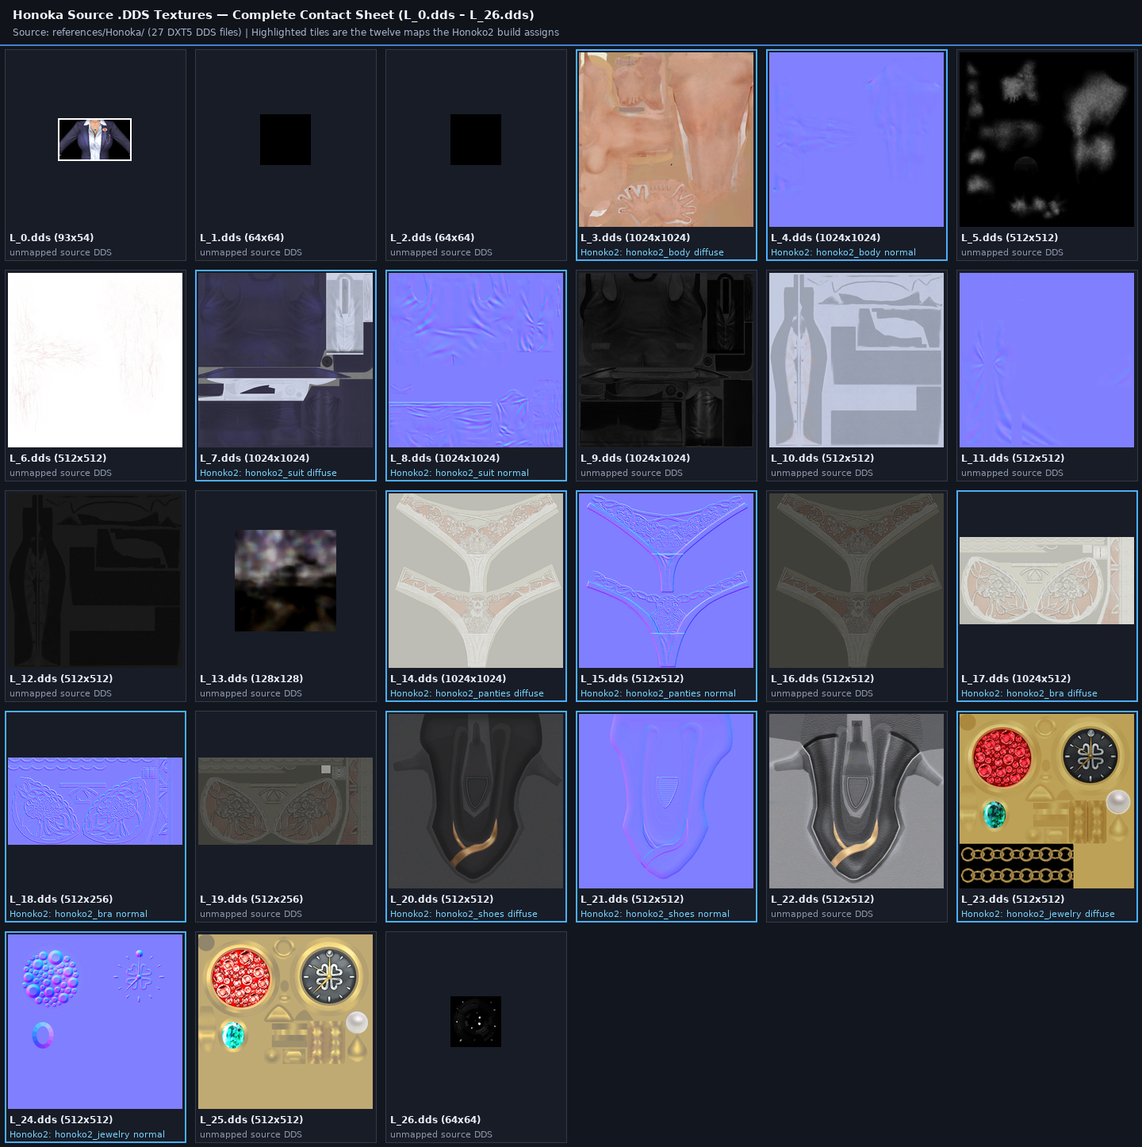
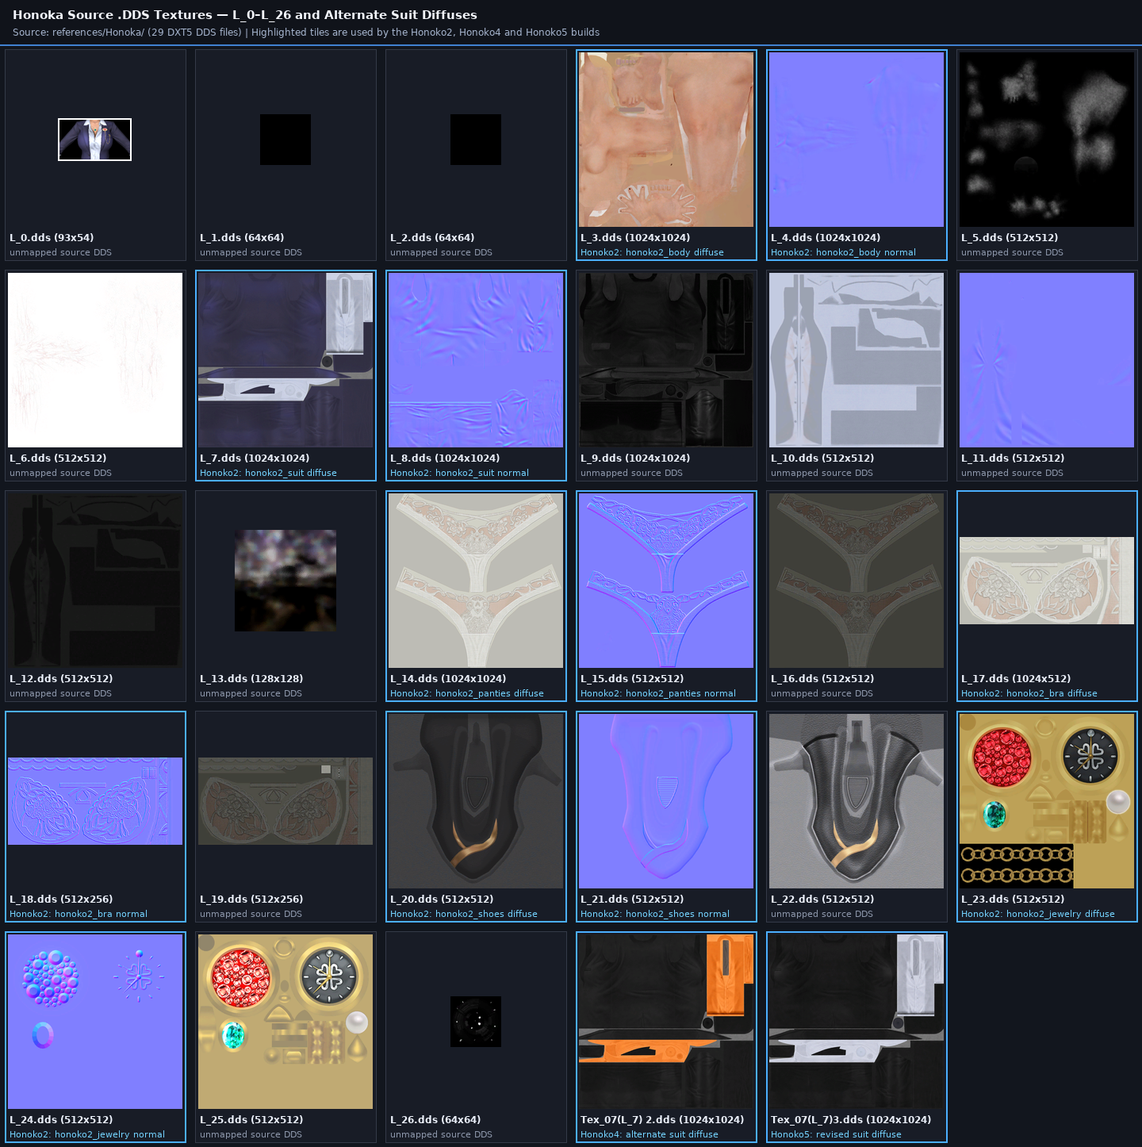
Refresh render documentation and Honoka texture sheet

Changed region(s): [[0.5, 0.8091, 0.8438, 0.9336], [0.5, 0.9647, 0.8125, 1.0], [0.2188, 0.0, 0.4688, 0.0311]]

diff --git a/tools/pd2-las/render_honoka.py b/tools/pd2-las/render_honoka.py
@@ -41,7 +41,7 @@ TMC_NAME = "Honoka_DOAXVV_Secret_Report.TMC"
 TEX_DIR = REPO / "references" / "Honoka"
 GLB_PATH = REPO / "references" / "Honoka" / "Honoka_DOAXVV_Secret_Report.rigged.glb"
 
-#: the twelve source maps the `Honoko2` build assigns, by material slot
+#: source maps assigned by Honoko2 and the Honoko4/5 alternate suit diffuses
 DDS_ROLE_NOTES = {
     "L_3.dds": "Honoko2: honoko2_body diffuse",
     "L_4.dds": "Honoko2: honoko2_body normal",
@@ -55,6 +55,8 @@ DDS_ROLE_NOTES = {
     "L_21.dds": "Honoko2: honoko2_shoes normal",
     "L_23.dds": "Honoko2: honoko2_jewelry diffuse",
     "L_24.dds": "Honoko2: honoko2_jewelry normal",
+    "Tex_07(L_7) 2.dds": "Honoko4: alternate suit diffuse",
+    "Tex_07(L_7)3.dds": "Honoko5: revised suit diffuse",
 }
 
 
@@ -196,6 +198,7 @@ def render_tmc_sheets(rp, out_dir: Path) -> None:
 
 def render_dds_sheet(out_dir: Path) -> None:
     dds_files = sorted(TEX_DIR.glob("L_*.dds"), key=lambda p: int(p.stem.split("_")[1]))
+    dds_files += [TEX_DIR / name for name in ("Tex_07(L_7) 2.dds", "Tex_07(L_7)3.dds")]
     cols, rows = 6, (len(dds_files) + 5) // 6
     tile_w, tile_h = 240, 278
     canvas = Image.new("RGB", (cols * tile_w, rows * tile_h + 56), (18, 22, 30))
@@ -224,8 +227,8 @@ def render_dds_sheet(out_dir: Path) -> None:
 
     _header(
         canvas,
-        "Honoka Source .DDS Textures — Complete Contact Sheet (L_0.dds – L_26.dds)",
-        f"Source: references/Honoka/ ({len(dds_files)} DXT5 DDS files) | Highlighted tiles are the twelve maps the Honoko2 build assigns",
+        "Honoka Source .DDS Textures — L_0–L_26 and Alternate Suit Diffuses",
+        f"Source: references/Honoka/ ({len(dds_files)} DXT5 DDS files) | Highlighted tiles are used by the Honoko2, Honoko4 and Honoko5 builds",
     )
     out_dir.mkdir(parents=True, exist_ok=True)
     out_path = out_dir / "honoka_dds_contact_sheet.png"

diff --git a/tests/test_honoka_dds_render.py b/tests/test_honoka_dds_render.py
@@ -1,0 +1,28 @@
+"""The source texture sheet includes both alternate Honoko suit maps."""
+
+import importlib.util
+from pathlib import Path
+
+from PIL import Image, ImageChops
+
+REPO = Path(__file__).resolve().parents[1]
+
+
+def test_contact_sheet_includes_alternate_suit_diffuses(tmp_path, monkeypatch):
+    script = REPO / "tools/pd2-las/render_honoka.py"
+    monkeypatch.syspath_prepend(str(script.parent))
+    spec = importlib.util.spec_from_file_location("honoka_render_test", script)
+    module = importlib.util.module_from_spec(spec)
+    spec.loader.exec_module(module)
+    module.render_dds_sheet(tmp_path)
+    sheet = Image.open(tmp_path / "honoka_dds_contact_sheet.png").convert("RGB")
+    assert sheet.size == (6 * 240, 5 * 278 + 56)
+    for index, name in enumerate(("Tex_07(L_7) 2.dds", "Tex_07(L_7)3.dds"), start=27):
+        assert name in module.DDS_ROLE_NOTES
+        source = Image.open(module.TEX_DIR / name).convert("RGB")
+        source.thumbnail((220, 220), Image.Resampling.LANCZOS)
+        row, col = divmod(index, 6)
+        x = col * 240 + (240 - source.width) // 2
+        y = 56 + row * 278 + 10 + (220 - source.height) // 2
+        crop = sheet.crop((x, y, x + source.width, y + source.height))
+        assert ImageChops.difference(crop, source).getbbox() is None

diff --git a/tools/pd2-las/README.md b/tools/pd2-las/README.md
@@ -12,8 +12,8 @@ registration. Pure Python: no Source compile step, no Blender, and no game is ne
 | `Honoko2`..`Honoko5` — the DOAXVV "Secret Report" costume, built from `.dae` (6 mats); `Honoko3` is the same mesh 5% slimmer; `Honoko4`/`Honoko5` are `Honoko3` in the user's alternate suit colourways | `references/Honoka/Honoka_DOAXVV_Secret_Reportout.dae` | `build_honoko2_dae.py` | `honokodae` |
 
 `honokodae` writes `dist/Honoka/Honoko2.zip` through `dist/Honoka/Honoko5.zip` directly, and `fresh` verifies all
-four. `Honoko3` and `Honoko4` are also built with the layer-clearance pass and the trimmed
-shadow caster of D44; `Honoko4`'s suit slot reads `references/Honoka/Tex_07(L_7) 2.dds`.
+four. `Honoko3`, `Honoko4` and `Honoko5` share the layer-clearance pass and trimmed shadow caster of D44;
+`Honoko4` and `Honoko5` use the two user-supplied alternative suit diffuses.
 The `.dae` builder takes its skinning from the source TMC (`tmc.py`, `tmc_skeleton_map.json`), cuts wrists, encodes DXT5 mips (matte gloss; X-in-alpha, Y+-in-green normals), and registers BODY_ONLY with glove adapter and 4-view icon.
 `runtime_verified` is `false`; `Honoko2` was seen in the in-game outfit menu (`docs/pd2-las/HANDOFF.md`). See `docs/pd2-las/honoka-tmc-format.md`.
 
@@ -44,7 +44,7 @@ make -sC tools/pd2-las green    # everything the test workflow checks, test and 
   `"is": "tracked"` (the zip is what git holds) proves a rebuild; the builder's output is in
   `build/pd2-las/<target>.log`. In the pinned environment an unchanged tree reproduces the zips on any x86-64
   Linux machine: every builder first puts itself on one declared code path (`determinism.py`). `fresh` checks
-  all 20 zips in a copy and touches no tracked file; nor does a builder run with `--out build/x`.
+  all tracked ZIPs, including the two build copies, in a copy and touches no tracked file; nor does a builder run with `--out build/x`.
 - **Done means:** `green` passes and `status` shows `changed` only for packs you meant to change. No
   document needs an edit; a changed `Miranda_LAS` needs `heads` run again.
 
@@ -56,7 +56,7 @@ make -sC tools/pd2-las green    # everything the test workflow checks, test and 
 | `build_las.py`, `las_pack.py` | scaffold stage: VPK → textures, hook, `main.xml`, locales, unit XML, `BUILD_INFO.json`, reproducible zip. Run alone, `build_las.py` leaves a scaffold without models, marked `WIP_DO_NOT_INSTALL.txt` |
 | `source_inventory.json` | what the L4D2 source archive contains (bones, meshes, triangle counts, texture formats); tracked, `make -sC tools/pd2-las inventory` rewrites it, and a test fails while it is stale |
 | `build_busty_variant.py`, `bust_variant.py` | the chest-morph variant |
-| `build_honoko2_dae.py`, `tmc_las.py` | the Honoko2..Honoko5 (DOAXVV "Secret Report") LAS packs, built from the Collada `.dae` with the TMC's skinning: palette remap, wrist cut, DXT5 textures, BODY_ONLY registration + glove adapter, icon from own render; `Honoko3` adds the bone-anchored slim pass (`_slim_groups`); `Honoko3`/`Honoko4` add the layer-clearance pass and the trimmed shadow caster (`_clearance_pass`, D44); `Honoko4`/`Honoko5` swap the suit diffuse for the user's `Tex_07(L_7) 2.dds` / `Tex_07(L_7)3.dds`; `tmc_las.py` holds the TMC frame map and mesh post-processes |
+| `build_honoko2_dae.py`, `tmc_las.py` | the Honoko2..Honoko5 (DOAXVV "Secret Report") LAS packs, built from the Collada `.dae` with the TMC's skinning: palette remap, wrist cut, DXT5 textures, BODY_ONLY registration + glove adapter, icon from own render; `Honoko3` adds the bone-anchored slim pass (`_slim_groups`); `Honoko3`/`Honoko4`/`Honoko5` add the layer-clearance pass and the trimmed shadow caster (`_clearance_pass`, D44); `Honoko4`/`Honoko5` swap the suit diffuse for the user's `Tex_07(L_7) 2.dds` / `Tex_07(L_7)3.dds`; `tmc_las.py` holds the TMC frame map and mesh post-processes |
 | `las_outfit_pack.py` | the registration, hook, localization, unit/object XML, zip and the glove-adapter companion shared by body-only LAS packs |
 | `diesel_model.py` | Diesel `.model` codec; change it only with the round-trip tests green |
 | `vpk.py`, `source_model.py`, `vtf.py`, `dds_encode.py` | Source readers (VPK, MDL 44–49 + VVD + VTX, VTF) and DDS writers |

diff --git a/tools/README.md b/tools/README.md
@@ -2,13 +2,15 @@
 
 Commands for all of them are make targets in `tools/pd2-las/Makefile`, listed in `AGENTS.md`;
 `make -sC tools/pd2-las status` prints every pack with the target that rebuilds it. Which archive feeds which
-pack: `references/README.md`.
+pack: `references/README.md`. ZIPs are grouped by character in `dist/`; their internal mod
+folders remain the installable names. The Hila Romance head's skin diffuse is matched to Honoko's
+body and therefore changes with that head on other bodies too.
 
-| | `tools/pd2-port/` — COLLADA → LAS | `tools/pd2-las/` — Source MDL → LAS | `tools/build_joy_head_mods.py` — heister head mods |
+| | `tools/pd2-port/` — COLLADA → LAS | `tools/pd2-las/` — Source MDL / COLLADA → LAS | `tools/build_joy_head_mods.py` — heister head mods |
 | --- | --- | --- | --- |
-| Builds | a full-body LAS outfit from a rigged COLLADA character. Not tied to one character; the port it ships is Miranda Lawson from the Mass Effect 2 *Romance* archive, `Miranda_Romance_LAS` | LAS outfits from compiled Source-engine models (MDL/VVD/VTX), re-authored onto the 2B template skeleton: `Miranda_L4D2_LAS`, its larger-chest variant `Miranda_L4D2_Busty_LAS` (its own `LegendaryArmours.miranda_busty` entry), and the body-only `Christie_LAS` and `Christie_LAS_Slim` | eleven head replacements over the vanilla heisters, modeled on `Ada Wong over Joy.7z` and `Heister - FPS Gloves in TPS 2.zip`: Miranda (L4D2 and ME2 Romance heads) over Joy, Clover, Bonnie, Sydney and Hila, and Geralt over Rust. It takes the L4D2 face from `dist/Miranda_L4D2/Miranda_L4D2_LAS.zip`, so it runs after that pack |
+| Builds | a full-body LAS outfit from a rigged COLLADA character. Not tied to one character; the port it ships is Miranda Lawson from the Mass Effect 2 *Romance* archive, `Miranda_Romance_LAS` | LAS outfits re-authored onto the 2B template skeleton, from compiled Source-engine models (MDL/VVD/VTX): `Miranda_L4D2_LAS`, its larger-chest variant `Miranda_L4D2_Busty_LAS` (its own `LegendaryArmours.miranda_busty` entry), the body-only `Christie_LAS` and `Christie_LAS_Slim`, plus the Honoko2–5 body-only outfits from COLLADA with TMC skinning | eleven head replacements over the vanilla heisters, modeled on `Ada Wong over Joy.7z` and `Heister - FPS Gloves in TPS 2.zip`: Miranda (L4D2 and ME2 Romance heads) over Joy, Clover, Bonnie, Sydney and Hila, and Geralt over Rust. It takes the L4D2 face from `dist/Miranda_L4D2/Miranda_L4D2_LAS.zip`, so it runs after that pack |
 | Start at | `tools/pd2-port/README.md`; the dated state of the shipped port is `tools/pd2-port/STATUS.md` | `tools/pd2-las/README.md`; the dated record is `docs/pd2-las/HANDOFF.md` | the docstring of `tools/build_joy_head_mods.py`. Tracked renders: `docs/renders/README.md`; scratch preview sheets: `build/previews/` (`tools/render_mod_previews.py`) |
-| Pack layout | `Lawson_LAS/assets/units/…` | `Miranda_LAS/assets/units/…` and the like | `{Miranda …, Geralt} over {Joy,Clover,Bonnie,Sydney,Rust}/units/…`; Geralt is two atoms, `mtr_head` and an `ALPHA_MASKED` `mtr_hair` |
+| Pack layout | `Lawson_LAS/assets/units/…` | `Miranda_LAS/assets/units/…` and the like | `{Miranda …, Geralt} over {Joy,Clover,Bonnie,Sydney,Hila,Rust}/units/…`; Geralt is two atoms, `mtr_head` and an `ALPHA_MASKED` `mtr_hair` |
 | Install | extract into `PAYDAY 2\assets\mod_overrides\`; needs SuperBLT + BeardLib + Legendary Armour Skins | the same | extract into `PAYDAY 2\assets\mod_overrides\` (a vanilla heister head replacement) |
 | `.model` dialect | DODB container, unshifted channel types, packed normals | plain container, shifted types, float normals (byte-exact to the game-tested 2B template) | |
 | Rig work | `rig_target.py` + `reference/las_rig.json` | `skeleton_map.json` + the retarget in `build_models.py` | |

diff --git a/docs/renders/honoka/model/dae/README.md b/docs/renders/honoka/model/dae/README.md
@@ -3,14 +3,14 @@
 - **Generated by:** `.venv/bin/python tools/render_mod_previews.py --unified`
 - **Source packs:** `dist/Honoka/Honoko2.zip` through `dist/Honoka/Honoko5.zip` (built by `make -sC tools/pd2-las honokodae` / `tools/pd2-las/build_honoko2_dae.py` from `references/Honoka/Honoka_DOAXVV_Secret_Reportout.dae`, skinning transferred from `Honoka_DOAXVV_Secret_Report.TMC`).
 - **Files:**
-  - `honoko2_las_sheet.png`: Full-body front, 3/4, back, side, upper-body close-up, and 256x256 HUD/menu icon for the 6-material buttoned DOAXVV "Secret Report" LAS outfit (`honoko2_body`, `honoko2_suit`, `honoko2_panties`, `honoko2_bra`, `honoko2_shoes`, `honoko2_jewelry`).
-  - `honoko3_las_sheet.png`: the same six views of `Honoko3`, the same outfit with the mesh scaled 5% about the rig's bones (`_slim_groups` in the builder, D42) — slimmer through the torso, arms, hips and bust, with the same height, joint placement, wrist cuts and floor contact.
-  - `honoko4_las_sheet.png`: `Honoko4`, `Honoko3`'s geometry in the user's alternate suit colourway (black jacket, orange shirt) from `references/Honoka/Tex_07(L_7) 2.dds` (D44).
-  - `honoko5_las_sheet.png`: `Honoko5`, `Honoko3`'s geometry in the user's revised third suit colourway (black jacket, light shirt) from `references/Honoka/Tex_07(L_7)3.dds` (D45).
-  - `honoko5_with_miranda_romance_over_hila_sheet.png`: the same combination as below, for `Honoko5`.
-  - `honoko5_head_skin_detail.png`: front and three-quarter face/neck close-ups of that combination,
+  - [`honoko2_las_sheet.png`](honoko2_las_sheet.png): Full-body front, 3/4, back, side, upper-body close-up, and 256x256 HUD/menu icon for the 6-material buttoned DOAXVV "Secret Report" LAS outfit (`honoko2_body`, `honoko2_suit`, `honoko2_panties`, `honoko2_bra`, `honoko2_shoes`, `honoko2_jewelry`).
+  - [`honoko3_las_sheet.png`](honoko3_las_sheet.png): the same six views of `Honoko3`, the same outfit with the mesh scaled 5% about the rig's bones (`_slim_groups` in the builder, D42) — slimmer through the torso, arms, hips and bust, with the same height, joint placement, wrist cuts and floor contact.
+  - [`honoko4_las_sheet.png`](honoko4_las_sheet.png): `Honoko4`, `Honoko3`'s geometry in the user's alternate suit colourway (black jacket, orange shirt) from `references/Honoka/Tex_07(L_7) 2.dds` (D44).
+  - [`honoko5_las_sheet.png`](honoko5_las_sheet.png): `Honoko5`, `Honoko3`'s geometry in the user's revised third suit colourway (black jacket, light shirt) from `references/Honoka/Tex_07(L_7)3.dds` (D45).
+  - [`honoko5_with_miranda_romance_over_hila_sheet.png`](honoko5_with_miranda_romance_over_hila_sheet.png): the same combination as below, for `Honoko5`.
+  - [`honoko5_head_skin_detail.png`](honoko5_head_skin_detail.png): front and three-quarter face/neck close-ups of that combination,
     using the Romance-over-Hila skin tint matched to Honoko5 (D48).
-  - `honoko4_with_miranda_romance_over_hila_sheet.png`: `Honoko4`'s body under the `g_head` drawable of
+  - [`honoko4_with_miranda_romance_over_hila_sheet.png`](honoko4_with_miranda_romance_over_hila_sheet.png): `Honoko4`'s body under the `g_head` drawable of
     `dist/Miranda_Romance/Miranda_Romance_over_Hila.zip` (head + lashes), i.e. the combination as installed - both packs'
     models stand in one character frame, so the parts share one rasterizer call with no transform between
     them. The close-up shows where the outfit's neck plug crosses the head pack's neck skin: one clean

diff --git a/tools/pd2-port/README.md b/tools/pd2-port/README.md
@@ -21,9 +21,8 @@ place.
 from *Mass Effect 2* and builds `dist/Miranda_Romance/Miranda_Romance_LAS.zip`. It is the worked
 example for everything below. Its pack is tracked in git and compared byte for
 byte in CI, and the release workflow publishes it on a tag. Whether there is a
-release, and of which build, is in [`STATUS.md`](STATUS.md). Names such as `me2_dae.py`,
-`lawson_las.zip` and `Lawson_LAS/` still carry the character because tests,
-CI and other tools in the repository refer to them. Wherever this page says
+release, and of which build, is in [`STATUS.md`](STATUS.md). The ZIP's installable root remains `Lawson_LAS/`; its public filename is
+`Miranda_Romance_LAS.zip`. Existing asset IDs and script names remain unchanged. Wherever this page says
 "the shipped port", it means that build.
 
 Earlier attempts at the same character — the character swaps (`lawson_clover`
@@ -314,14 +313,14 @@ release page is).
    ```
 
    The workflow creates the release page if there is none, uploads
-   `lawson_las.zip` and `Miranda_LAS.zip` with their `.sha256` files, and
+   `Miranda_Romance_LAS.zip` and `Miranda_L4D2_LAS.zip` with their `.sha256` files, and
    fails loudly if the tests fail or if the runner's build differs from the
    committed bytes. Do not upload the assets
    from a sandbox yourself: `gh release upload` failed there with EOF
    (recorded on 2026-10-19), and the workflow needs no upload from you.
 
 Every push to `main` also rebuilds the pack and uploads it as an artifact of
-that workflow run, together with the tracked `Miranda_LAS.zip` and the two
+that workflow run, together with the tracked `Miranda_L4D2_LAS.zip` and the two
 head packs over Joy.
 
 ## Status and limits

diff --git a/docs/renders/miranda/model/busty/README.md b/docs/renders/miranda/model/busty/README.md
@@ -3,7 +3,7 @@
 - **Generated by:** `.venv/bin/python tools/render_mod_previews.py --unified`
 - **Source pack:** `dist/Miranda_L4D2/Miranda_L4D2_Busty_LAS.zip` (`Miranda_Busty_LAS/assets/units/miranda_busty/skins/miranda_busty/miranda_busty.model` + `fps_miranda_busty.model` + HUD icon), compared against `dist/Miranda_L4D2/Miranda_L4D2_LAS.zip`.
 - **Files:**
-  - `miranda_busty_las_sheet.png`: Full-Body Front (`0°`), 3/4 (`34°`), Back (`180°`), Portrait (`18°`), First-Person Arms, and HUD/menu icon.
-  - `miranda_busty_vs_las_chest_before-after.png`: Stock vs. busty chest close-up at `0°`, `30°`, `45°`, `60°`, and `90°` yaw.
-  - `miranda_busty_vs_las_top_below_before-after.png`: Stock vs. busty overhead (`-58°` pitch) and underside (`+58°` pitch) views at `0°` and `30°` yaw.
+  - [`miranda_busty_las_sheet.png`](miranda_busty_las_sheet.png): Full-Body Front (`0°`), 3/4 (`34°`), Back (`180°`), Portrait (`18°`), First-Person Arms, and HUD/menu icon.
+  - [`miranda_busty_vs_las_chest_before-after.png`](miranda_busty_vs_las_chest_before-after.png): Stock vs. busty chest close-up at `0°`, `30°`, `45°`, `60°`, and `90°` yaw.
+  - [`miranda_busty_vs_las_top_below_before-after.png`](miranda_busty_vs_las_top_below_before-after.png): Stock vs. busty overhead (`-58°` pitch) and underside (`+58°` pitch) views at `0°` and `30°` yaw.
 - **Caveats:** Software Z-buffer rasterization with 2x SSAA and diffuse textures only; offline renders do not establish in-game verification.

diff --git a/docs/renders/overview/model/README.md b/docs/renders/overview/model/README.md
@@ -1,8 +1,8 @@
 # Dist Overview Sheets — Compiled `.model` Renders
 
 - **Generated by:** `.venv/bin/python tools/render_mod_previews.py --unified`
-- **Source packs:** All 18 mod packages in `dist/`.
+- **Source packs:** All 20 mod packages in `dist/`.
 - **Files:**
-  - `all_miranda_mods_sheet.png`: 6x2 comparison grid of the 12 core Miranda Lawson packages (top row: L4D2 Full-Body LAS, Joy, Clover, Bonnie, Sydney, Hila; bottom row: ME2 Romance Full-Body LAS, Joy, Clover, Bonnie, Sydney, Hila).
-  - `all_dist_mods_sheet.png`: 6x4 complete overview grid covering every `.zip` package in `dist/` (adds `Miranda_Busty_LAS.zip`, `Christie_LAS.zip`, `Christie_LAS_Slim.zip`, `Honoko2.zip`, `Honoko3.zip`, `Honoko4.zip`, `Honoko5.zip`, and `Geralt_over_Rust.zip`).
+  - [`all_miranda_mods_sheet.png`](all_miranda_mods_sheet.png): 6x2 comparison grid of the 12 core Miranda Lawson packages (top row: L4D2 Full-Body LAS, Joy, Clover, Bonnie, Sydney, Hila; bottom row: ME2 Romance Full-Body LAS, Joy, Clover, Bonnie, Sydney, Hila).
+  - [`all_dist_mods_sheet.png`](all_dist_mods_sheet.png): 6x4 complete overview grid covering every `.zip` package in `dist/` (adds `Miranda_L4D2_Busty_LAS.zip`, `Christie_LAS.zip`, `Christie_LAS_Slim.zip`, `Honoko2.zip`, `Honoko3.zip`, `Honoko4.zip`, `Honoko5.zip`, and `Geralt_over_Rust.zip`).
 - **Caveats:** Offline software Z-buffer renders; see each project's leaf folder under `docs/renders/<project>/model/` for individual multi-angle sheets and pack-specific notes.

diff --git a/docs/renders/honoka/tmc/README.md b/docs/renders/honoka/tmc/README.md
@@ -3,6 +3,6 @@
 - **Generated by:** `.venv/bin/python tools/pd2-las/render_honoka.py --unified`
 - **Source archive:** `references/Outfit for Honoka-109-1-1-1628020933.zip` (`Honoka_DOAXVV_Secret_Report.TMC`, parsed by `tools/pd2-las/tmc.py`).
 - **Files:**
-  - `honoka_tmc_full_sheet.png`: Front (`0°`), 3/4 (`34°`), Back (`180°`), and Side (`90°`) views of the three in-scope TMC meshes textured with `L_3.dds` / `L_7.dds` / `L_9.dds`, prior to retargeting, wrist-cutting, and source connector-sliver removal.
-  - `honoka_tmc_parts_sheet.png`: Isolated clay/color breakdown of all six non-placeholder TMC mesh groups (`WGT_new_aya_body_decl0`, `WGT_cap2`, `WGT_headdress2`, `WGT_body_feather`, `WGT_sweat_chest`, `WGT_new_aya_body_decl1`) with vertex and triangle counts.
+  - [`honoka_tmc_full_sheet.png`](honoka_tmc_full_sheet.png): Front (`0°`), 3/4 (`34°`), Back (`180°`), and Side (`90°`) views of the three in-scope TMC meshes textured with `L_3.dds` / `L_7.dds` / `L_9.dds`, prior to retargeting, wrist-cutting, and source connector-sliver removal.
+  - [`honoka_tmc_parts_sheet.png`](honoka_tmc_parts_sheet.png): Isolated clay/color breakdown of all six non-placeholder TMC mesh groups (`WGT_new_aya_body_decl0`, `WGT_cap2`, `WGT_headdress2`, `WGT_body_feather`, `WGT_sweat_chest`, `WGT_new_aya_body_decl1`) with vertex and triangle counts.
 - **Caveats:** Software Z-buffer rasterization; `WGT_cap2` and `WGT_headdress2` share overlapping jacket shell geometry in the source TMC.

diff --git a/docs/renders/miranda/model/over-hila/README.md b/docs/renders/miranda/model/over-hila/README.md
@@ -2,7 +2,7 @@
 
 - **Generated by:** `.venv/bin/python tools/render_mod_previews.py --unified`
 - **Source packs:** `dist/Miranda_L4D2/Miranda_L4D2_over_Hila.zip` and `dist/Miranda_Romance/Miranda_Romance_over_Hila.zip` (`units/pd2_dlc_ecp/characters/npc_criminals_ecp_female/npc_criminal_ecp_female.model`, head diffuse texture, eyelash diffuse texture, and the Hila character icon at `guis/dlcs/ecp/.../characters/ecp_female.texture`).
-- **Files:** `miranda_l4d2_over_hila_sheet.png`, `miranda_romance_over_hila_sheet.png` — Portrait Front (`0°`), Collar & Head 3/4 (`32°`), Back Collar & Hair (`180°`), Full Heister Rig (`22°`), and HUD/menu icon.
+- **Files:** [`miranda_l4d2_over_hila_sheet.png`](miranda_l4d2_over_hila_sheet.png), [`miranda_romance_over_hila_sheet.png`](miranda_romance_over_hila_sheet.png) — Portrait Front (`0°`), Collar & Head 3/4 (`32°`), Back Collar & Hair (`180°`), Full Heister Rig (`22°`), and HUD/menu icon.
 - **Eyes:** both packs carry the user-supplied `references/EYE_Diff.png` in the head atlas' eye quadrant (`load_hila_eye_texture()`), so the sclera here is the supplied diffuse rather than the synthesised eye of the other eight Miranda
 head packs (Geralt keeps Rust's).
 - **Skin:** Romance-over-Hila alone uses a warmer, lighter face/scalp-skin diffuse calibrated to Honoko5 (D48); it applies to that head on any body. L4D2 and the other heisters are unchanged.

diff --git a/README.md b/README.md
@@ -10,9 +10,20 @@ of them.
 ## What this fork adds
 
 PAYDAY 2 packs, tracked in `dist/` and rebuilt byte for byte by CI: full-body and body-only Legendary Armour
-Skins outfits (Miranda Lawson, Christie) and head replacements over the vanilla heisters (Miranda, Geralt).
+Skins outfits (Miranda Lawson, Christie, Honoka) and head replacements over the vanilla heisters (Miranda, Geralt).
 Three pipelines under `tools/` build them; [`tools/README.md`](tools/README.md) says which builds what, how a
 pack is installed and what the pipelines share.
+
+## Packs and previews
+
+- Browse the ZIPs and their checksum sidecars in [`dist/`](dist/): [Miranda L4D2](dist/Miranda_L4D2/),
+  [Miranda Romance](dist/Miranda_Romance/), [Christie](dist/Christie/),
+  [Honoka](dist/Honoka/), and [Geralt](dist/Geralt/).
+- See [all packs](docs/renders/overview/model/all_dist_mods_sheet.png), the
+  [Honoko5 and Miranda Romance combination](docs/renders/honoka/model/dae/honoko5_with_miranda_romance_over_hila_sheet.png),
+  or the [render index](docs/renders/README.md). These are offline previews, not proof of in-game behavior.
+- Sources and templates are catalogued in [`references/README.md`](references/README.md). The
+  [handoff](docs/pd2-las/HANDOFF.md) distinguishes in-game observations from offline results.
 
 ## Installing
 

diff --git a/docs/renders/honoka/dds/README.md b/docs/renders/honoka/dds/README.md
@@ -1,7 +1,7 @@
 # Honoka Source `.DDS` Texture Contact Sheet
 
 - **Generated by:** `.venv/bin/python tools/pd2-las/render_honoka.py --unified`
-- **Source textures:** `references/Honoka/L_0.dds` – `L_26.dds` (27 DXT5 DDS files).
+- **Source textures:** `references/Honoka/L_0.dds` – `L_26.dds`, plus `Tex_07(L_7) 2.dds` and `Tex_07(L_7)3.dds` (29 DXT5 DDS files).
 - **Files:**
-  - `honoka_dds_contact_sheet.png`: RGB contact sheet of all 27 `L_*.dds` textures with pixel dimensions; the twelve maps the `Honoko2` build assigns are highlighted — `L_3`/`L_4` body, `L_7`/`L_8` suit, `L_14`/`L_15` panties, `L_17`/`L_18` bra, `L_20`/`L_21` shoes, `L_23`/`L_24` jewelry.
+  - [`honoka_dds_contact_sheet.png`](honoka_dds_contact_sheet.png): RGB contact sheet of the 27 `L_*.dds` textures and both alternate suit diffuses with pixel dimensions; the twelve maps the `Honoko2` build assigns are highlighted — `L_3`/`L_4` body, `L_7`/`L_8` suit, `L_14`/`L_15` panties, `L_17`/`L_18` bra, `L_20`/`L_21` shoes, `L_23`/`L_24` jewelry. The two additional highlighted suit diffuses are used by `Honoko4` and `Honoko5`, respectively.
 - **Caveats:** Shows RGB channels only; normal-map Y direction and gloss alpha are documented in `docs/pd2-las/honoka-tmc-format.md`.
